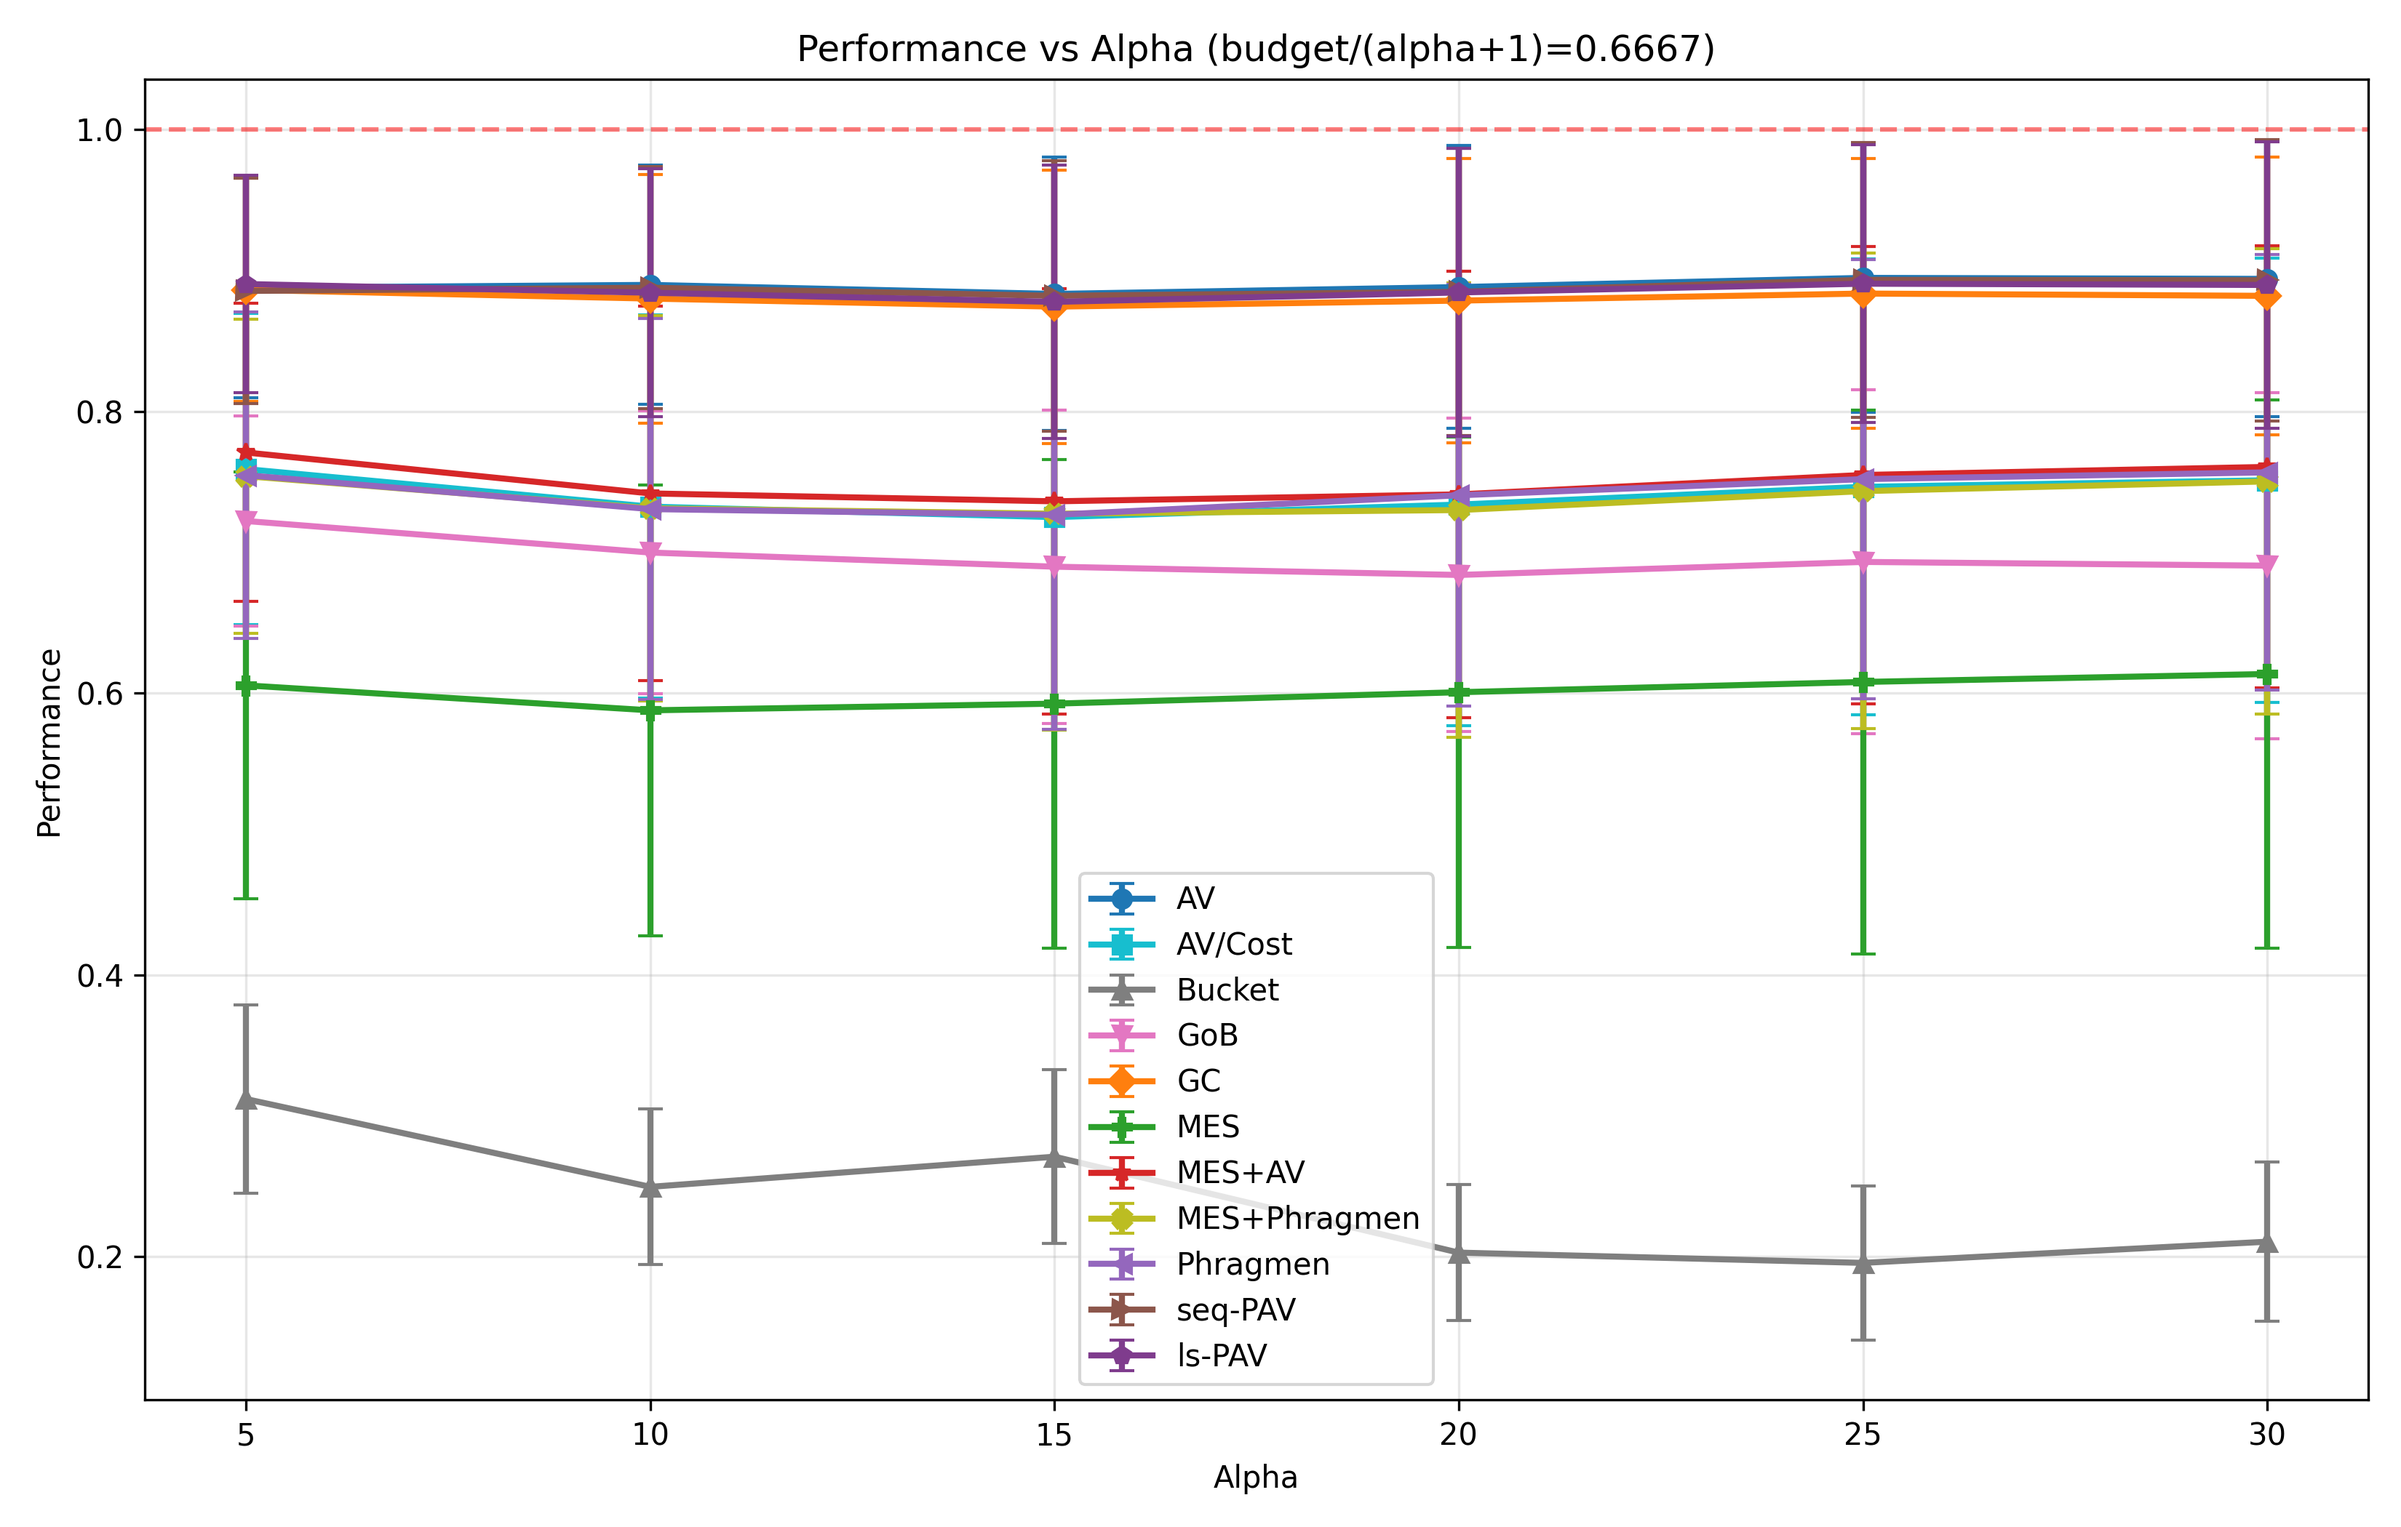
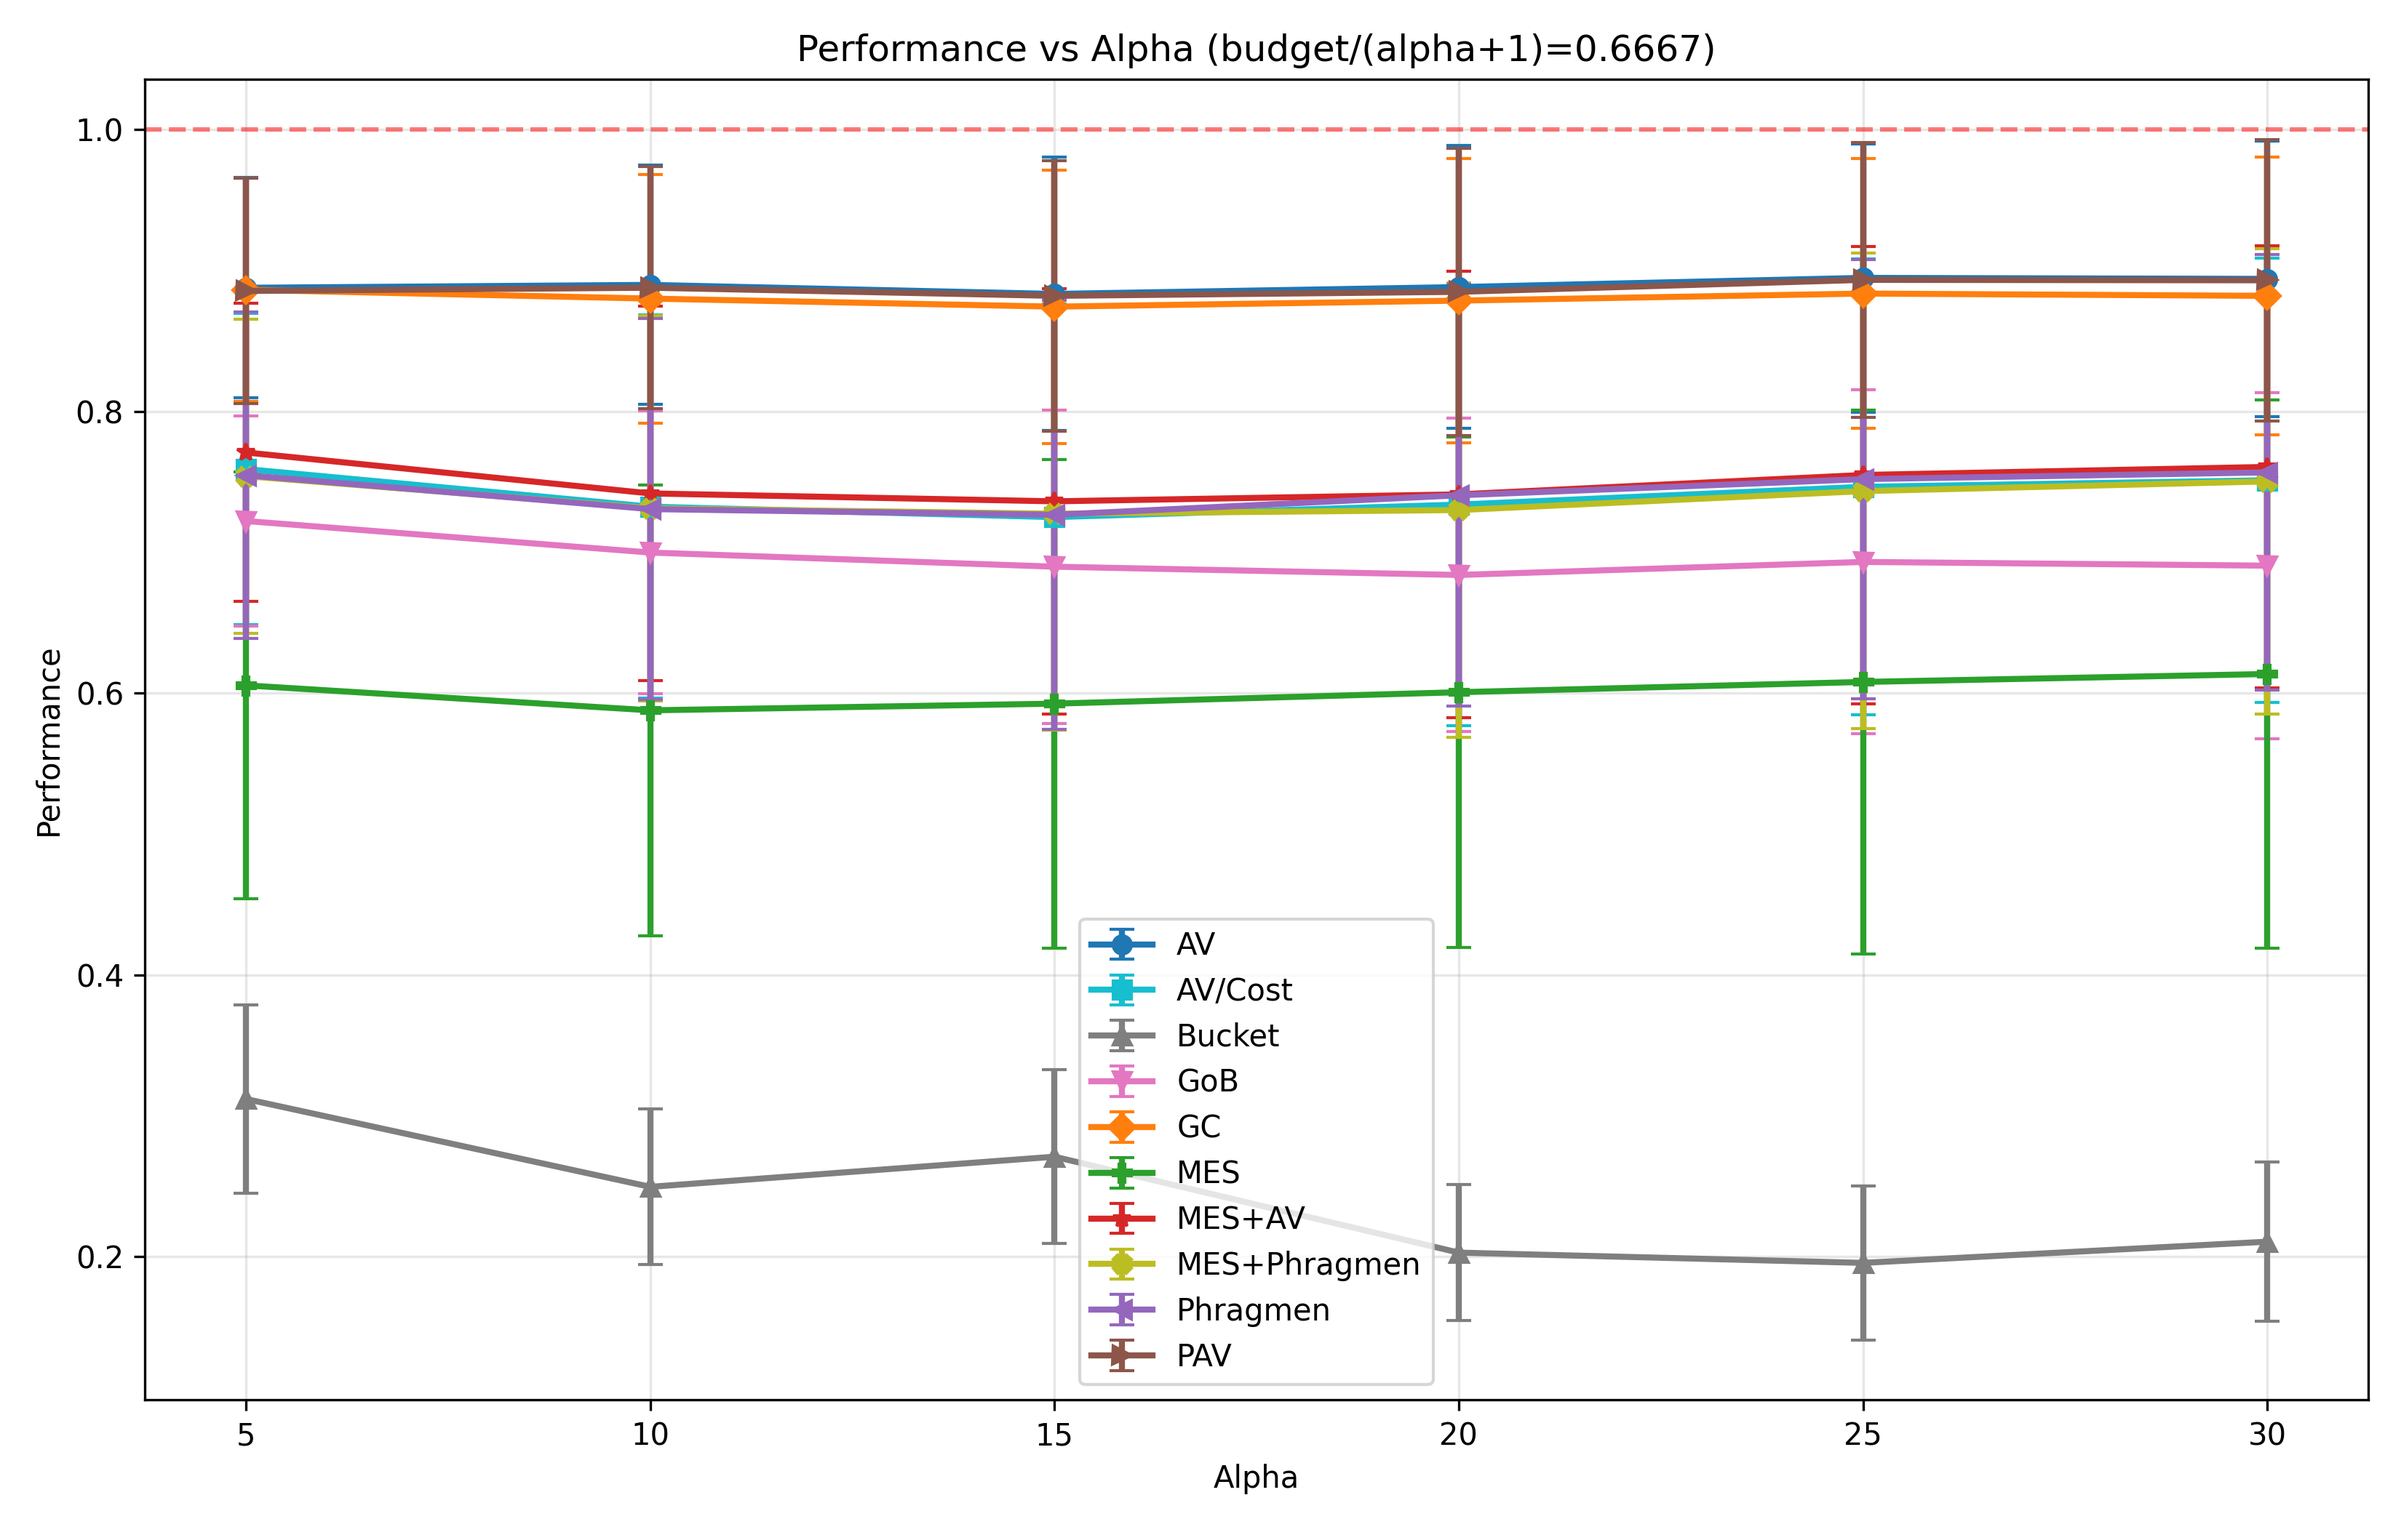
Plots regeneration

Changed region(s): [[0.437, 0.5571, 0.593, 0.8976], [0.0936, 0.1548, 0.7803, 0.2167]]

diff --git a/plot_requested_experiments_from_data.py b/plot_requested_experiments_from_data.py
@@ -36,6 +36,8 @@ RULE_COLORS: Dict[str, str] = {
 }
 
 RULE_ALIASES = {"GC + AV": "GC+AV", "MES + AV": "MES+AV"}
+DISPLAY_LABELS = {"seq-PAV": "PAV"}
+EXCLUDED_RULES = {"ls-PAV"}
 
 # Stable preference order for style assignment (aligned with experiment_suite._voting_rules).
 CANONICAL_RULE_ORDER: List[str] = [
@@ -284,6 +286,8 @@ def plot_curve(
 ) -> None:
     plt.figure(figsize=(11, 7))
     for rule in y_by_rule:
+        if _normalize_rule(rule) in EXCLUDED_RULES:
+            continue
         color = RULE_COLORS.get(rule, RULE_COLORS.get(_normalize_rule(rule), "black"))
         marker, linestyle = rule_styles[_normalize_rule(rule)]
         if not vary_linestyles:
@@ -298,7 +302,7 @@ def plot_curve(
             linewidth=2,
             capsize=4,
             color=color,
-            label=rule,
+            label=DISPLAY_LABELS.get(rule, rule),
         )
 
     plt.axhline(y=1.0, color="red", linestyle="--", alpha=0.5)
